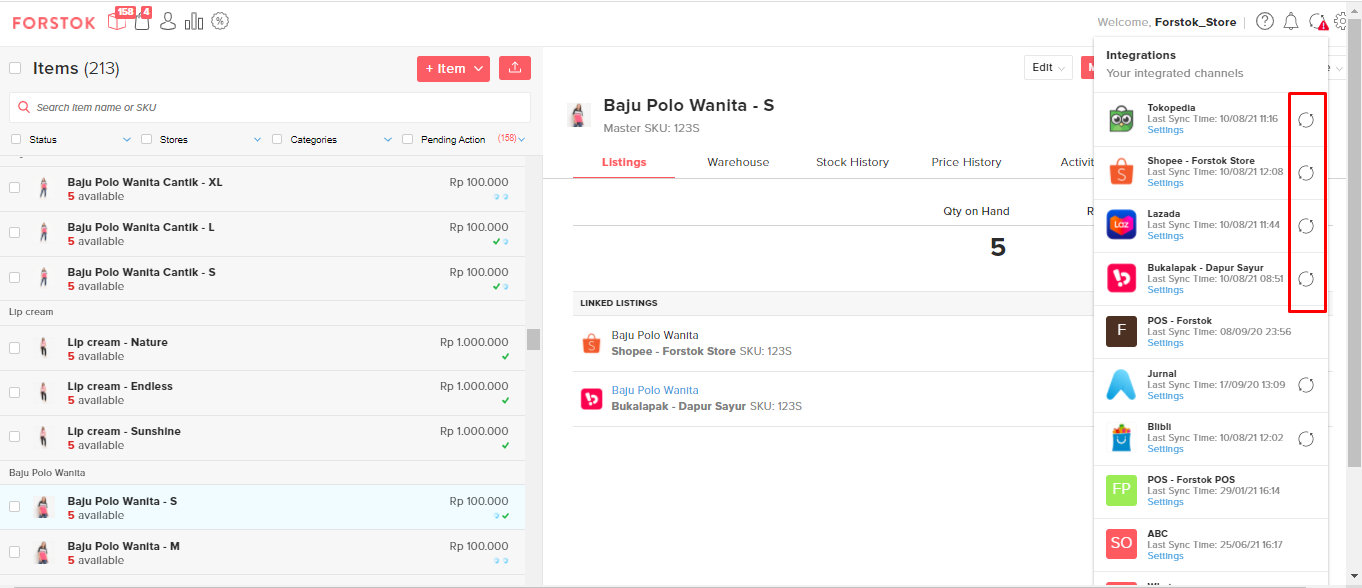
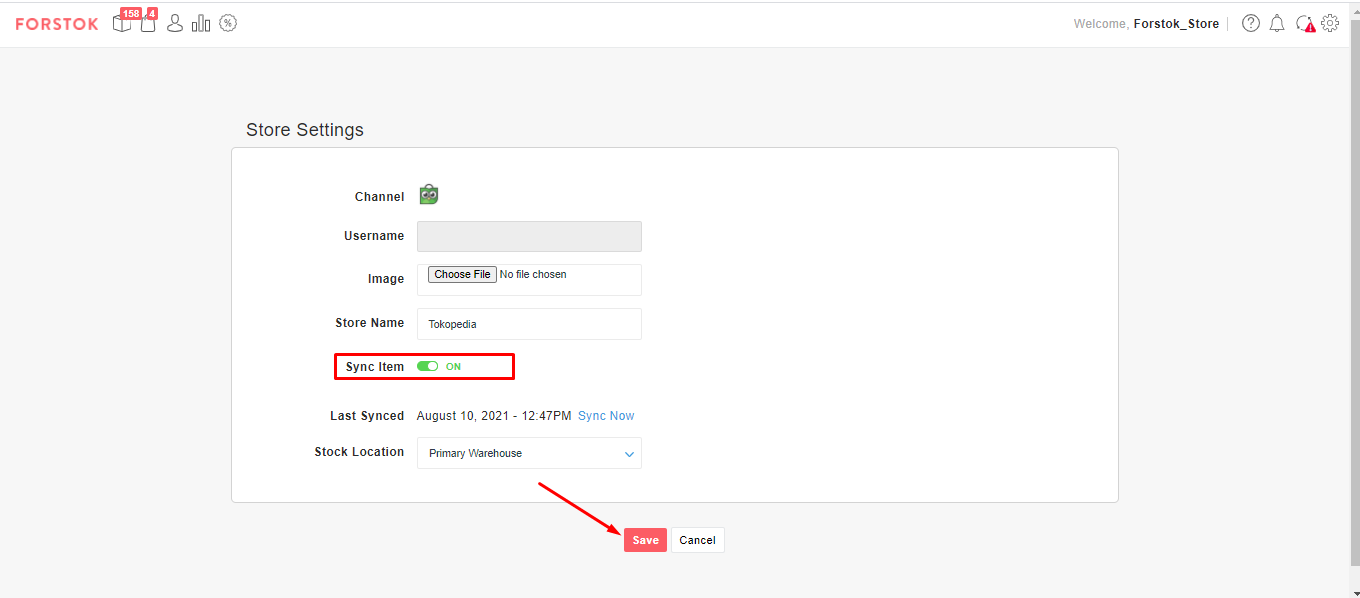
GitBook: [master] 166 pages and 5 assets modified

diff --git a/knowledge-base/integrations/disconnect.md b/knowledge-base/integrations/disconnect.md
@@ -1,0 +1,62 @@
+# Disconnect Channel
+
+Anda bisa melepaskan integrasi atau disconnect channel yang sudah terhubung dengan Forstok. Ini biasanya jika Anda sudah tidak melanjutkan penggunaan Forstok.
+
+{% hint style="warning" %}
+Anda harus info terlebih dahulu ke tim Forstok jika Anda ingin melakukan disconnect
+{% endhint %}
+
+Berikut langkah-langkah disconnect channel:
+
+Pastikan terlebih dahulu  pada akun Forstok export item atau sync item sudah di disable.
+
+* Integration, pilih channel yang akan di disable
+* Plilih settings
+* Pada sync item anda geser jadi disablle /Off
+
+![](../../.gitbook/assets/image%20%28369%29.png)
+
+1 Shopee
+
+* Log in ke seller center Shopee
+* Pilih Platform channel
+* Lalu klik pisahkan, konfirmasi
+
+Maka integrasi API Shopee dengan Forstok sudah terputus.
+
+![](../../.gitbook/assets/image%20%28367%29.png)
+
+2. Zalora
+
+* Log in seller center Zalora
+* Pilih settings --&gt; Integration Management
+* Hapus User ID dan API Key, lau excute
+
+Maka integrasi API Shopee dengan Forstok sudah terputus.
+
+![](../../.gitbook/assets/image%20%28368%29.png)
+
+3. Blibli
+
+* Log in ke seller center Blibli
+* Pada sebelah kanan atas pilih seller API manager
+
+![](../../.gitbook/assets/image%20%28399%29.png)
+
+* Pada API seller Key klik revoke dan pada API client ID klik Unbid
+
+![](../../.gitbook/assets/image%20%28398%29.png)
+
+* Jika sudah kosong semua, maka Blibli sudah tidak terhubung lagi dengan Forstok.
+
+{% hint style="warning" %}
+Untuk marketplace:
+
+* Tokopedia --&gt; Harap hubungi tim Onboarding Forstok untuk dibantu dilakukan pemutusan akun Tokopedia anda dari dev console Tokopedia
+* Lazada, Bukalapak, JD.ID tidak perlu ada action lagi untuk pemutusan. Saat sudah di sync off sudah otomatis tidak terhubung lagi
+
+Setelah semua disconnect selesai dilakukan harap hubungi tim Forstok kembali untuk dilakukan penghapusan data.
+{% endhint %}
+
+
+

diff --git a/knowledge-base/integrations/mengaktifkan-export-item.md b/knowledge-base/integrations/mengaktifkan-export-item.md
@@ -1,0 +1,24 @@
+# Mengaktifkan Export Item
+
+Export item berfungsi untuk memilih channel siap di manage dari Forstok.
+
+Saat pertama kali kita integrasikan channel atau marketplace kondisi exportnya masih Off jadi jika Anda melakukan update stock, update harga, edit item, dan listing product dari Forstok tidak akan terexport atau terupdate ke marketplace.
+
+Jadi sebelum Anda melakukan update stock, update harga, edit item, dan listing product sync export tersebut di aktifkan terlebih dahulu.
+
+Berikut step by step aktifkan sync export:
+
+1 . Klik integrasi, lalu pilih channel yang akan di aktifkan exportnya. Lalu klik setting pada di bawah channel
+
+![](../../.gitbook/assets/image%20%28402%29.png)
+
+2. Pada sync item geser tombol tersebut lalu berubah jadi ON. Jika sudah ON klik save.
+
+![](../../.gitbook/assets/image%20%28403%29.png)
+
+3. Maka tanda seru sudah tidak ada. Berarti export item tersebut sudah aktif/ON.
+
+Anda bisa melanjutkan update stock, harga , listing, dan edit item dari Forstok.
+
+![](../../.gitbook/assets/image%20%28405%29.png)
+

diff --git a/SUMMARY.md b/SUMMARY.md
@@ -51,11 +51,12 @@
   * [Reconnect Blibli](knowledge-base/integrations/reconnect-blibli.md)
   * [Reconnect Bukalapak](knowledge-base/integrations/reconnect-bukalapak.md)
   * [Reconnect Lazada](knowledge-base/integrations/reconnect-lazada.md)
-  * [Disconnect Channel](knowledge-base/integrations/disconnect/README.md)
-    * [Mengaktifkan Export Item](knowledge-base/integrations/disconnect/mengaktifkan-export-item.md)
+  * [Mengaktifkan Export Item](knowledge-base/integrations/mengaktifkan-export-item.md)
+  * [Disconnect Channel](knowledge-base/integrations/disconnect.md)
 * [Dashboard](knowledge-base/dashboard/README.md)
   * [Dashboard](knowledge-base/dashboard/introduction-to-dashboard.md)
 * [Produk \(Items\)](knowledge-base/items/README.md)
+  * [Mengaktifkan Export Item](knowledge-base/items/mengaktifkan-export-item.md)
   * [Item Overview](knowledge-base/items/item-overview.md)
   * [Add Items \(Create New Items\)](knowledge-base/items/add-items.md)
   * [Impor produk dari channel](knowledge-base/items/import-product-from-channels.md)

diff --git a/knowledge-base/items/add-listing.md b/knowledge-base/items/add-listing.md
@@ -24,7 +24,7 @@ Kenapa sync export perlu ON sebelum listing?
 --&gt; Supaya item yang di listing, update stock, edit, update harga yang di lakukan dari Forstok bisa terupdate atau mirroring ke marketplace.
 {% endhint %}
 
-![](../../.gitbook/assets/image%20%28402%29.png)
+![](../../.gitbook/assets/image%20%28404%29.png)
 
 2. Master item sudah di upload atau item yang akan di listingkan sudah ada di Forstok hasil import item channel sebelumnya.
 

diff --git a/knowledge-base/items/mengaktifkan-export-item.md b/knowledge-base/items/mengaktifkan-export-item.md
@@ -1,0 +1,2 @@
+# Mengaktifkan Export Item
+
